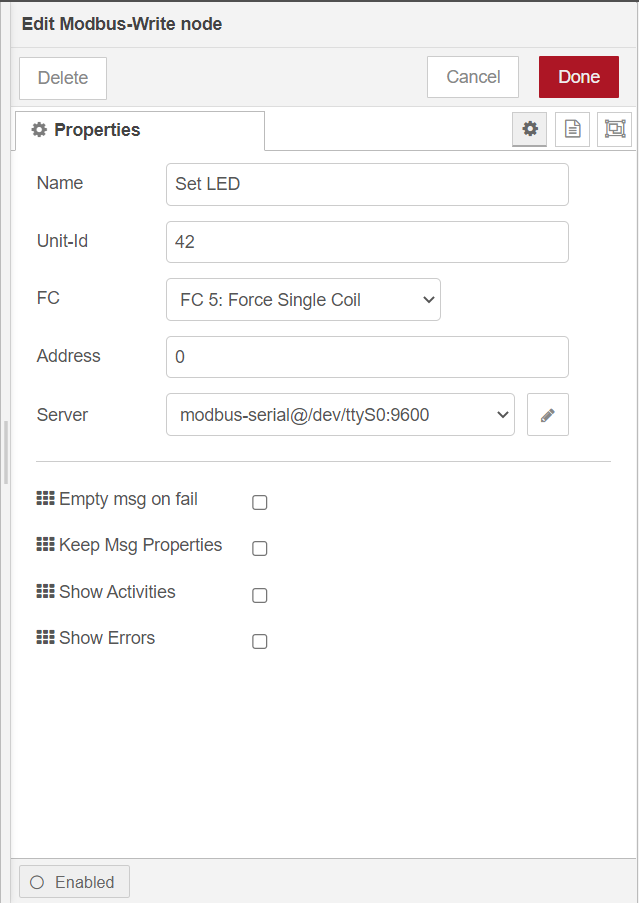
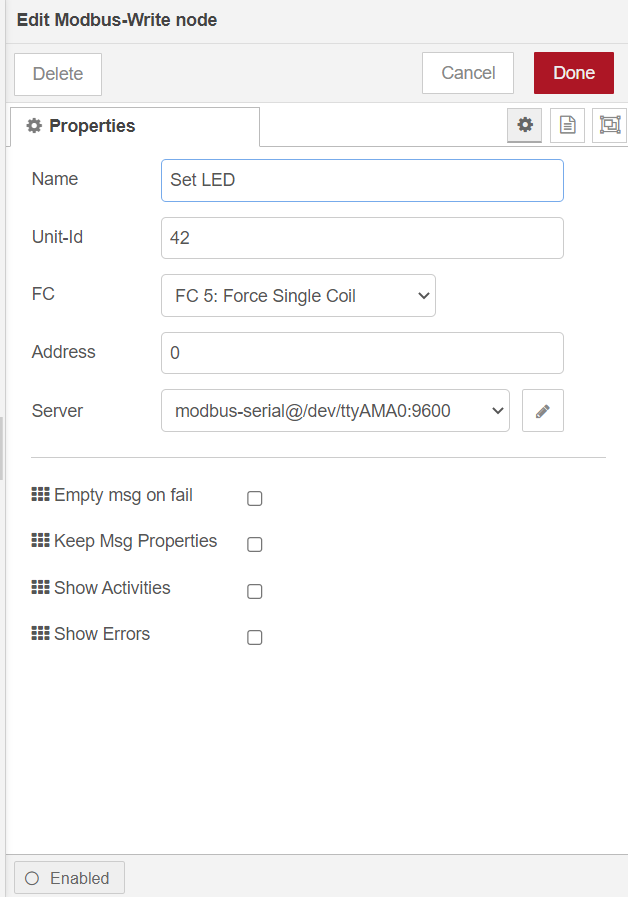
change ttyS0 to ttyAMA0

diff --git a/interface/rak5802/rak5802_modbus/README.md b/interface/rak5802/rak5802_modbus/README.md
@@ -24,11 +24,23 @@ In this example, we are going to deploy a flow in Node-RED to communication with
 
 If you are using Node-RED locally (in the host machine without using docker containers), you need to make sure the Node-RED user has access to the serial port device on your host machine.
 
-For raspberry pi 4B,  we should enable `ttyS0` before with `sudo raspi-config`.  Then, select `Interface Options`  and  `Serial Port ` to disable serial login shell and enable serial interface.
+For raspberry pi 4B,  we should enable `/dev/ttyAMA0`. To enable it , we should modify `/boot/config.txt` and `/boot/cmdline.txt`.
 
-<img src="assets/image-20220531104214191.png" alt="image-20220531104214191" style="zoom:50%;" />
+1. Add two lines to `/boot/config.txt`.
 
-![image-20220429120826702](assets/image-20220429120826702.png)
+```
+enable_uart=1
+dtoverlay=pi3-miniuart-bt
+```
+
+![image-20220601154722652](assets/image-config.png)
+
+2. Delete `console=serial0,115200` from `/boot/cmdline.txt`.
+   ![](assets/image-cmdline.png)
+
+3. Then, reboot raspberry pi 4B. After reboot,  we can see /dev/serial0 links with ttyAMA0.
+
+   ![image-20220601164331093](assets/image-serial-port.png)
 
 If your Node-RED is deployed inside a container, you need to mount serial port to the Node-RED container, and also make sure the user inside the container is assigned to the right group so that it has access to serial port  devices.
 
@@ -125,9 +137,9 @@ This part toggle a build-in LED on the WisBlock Base RAK5005-O by writing a sing
 
 `Read LED` is a Modbus-read node, you should set `FC` to `Read Coin Status`.
 
-<img src="assets/read_led.png" alt="read_led" style="zoom:67%;" />
+<img src="assets/read_rak19001.png" alt="read_rak19001" style="zoom:67%;" />
 
-`Set LED` is a Modbus-wirte node, you should set `FC` to `Force Single Coin`
+`Set LED` is a Modbus-wirte node, you should set `FC` to `Force Single Coin`.
 
 <img src="assets/set_led.png" alt="set_led" style="zoom:67%;" />
 
@@ -140,8 +152,6 @@ This part read temperature and humidity data from RAK1901 by reading holding reg
 `Quantity` specifies the quantity of registers to be read.
 
 <img src="assets/read_rak19001.png" alt="read_rak19001" style="zoom:67%;" />
-
-
 
 Hit the `Deploy` button on the top right to deploy this flow, you will see the LED status,  temperature and humidity data on the debug window.
 

diff --git a/interface/rak13005/rak13005-linbus/README.md b/interface/rak13005/rak13005-linbus/README.md
@@ -24,11 +24,23 @@ In this example, we are going to deploy a flow in Node-RED to communication with
 
 If you are using Node-RED locally (in the host machine without using docker containers), you need to make sure the Node-RED user has access to the serial port device on your host machine.
 
-For raspberry pi 4B,  we should enable `ttyS0` before with `sudo raspi-config`.  Then, select `Interface Options`  and  `Serial Port ` to disable serial login shell and enable serial interface.
+For raspberry pi 4B,  we should enable `/dev/ttyAMA0`. To enable it , we should modify `/boot/config.txt` and `/boot/cmdline.txt`.
 
-<img src="assets/image-20220531104214191.png" alt="image-20220531104214191" style="zoom:50%;" />
+1. Add two lines to `/boot/config.txt`.
 
-![image-20220429120826702](assets/image-20220429120826702.png)
+```
+enable_uart=1
+dtoverlay=pi3-miniuart-bt
+```
+
+![](assets/image-config.png)
+
+2. Delete `console=serial0,115200` from `/boot/cmdline.txt`.
+   ![](assets/image-cmdline.png)
+
+3. Then, reboot raspberry pi 4B. After reboot,  we can see /dev/serial0 links with ttyAMA0.
+
+   ![](assets/image-serial.png)
 
 If your Node-RED is deployed inside a container, you need to mount serial port to the Node-RED container, and also make sure the user inside the container is assigned to the right group so that it has access to serial port  devices.
 
@@ -120,7 +132,7 @@ when we compile and upload master code successfully, we can open the Serial Moni
 
 Now import the flow, the new flow should look like this:
 
-![linbus-parse-flow](assets/linbus-parse-flow.png)
+![](assets/linbus-parse-flow.png)
 
 You must configure `ID` option and `Length` option in the `linbus-parse` node,  `ID` specify the identifier of linbus frame that you want to parse, and `Length` specify the data length of linbus frame that you want to parse.
 
@@ -140,7 +152,7 @@ Hit the `Deploy` button on the top right to deploy this flow, once linBUS data a
 
 Now import the flow , the new flow should look like this:
 
-![linbus-builder-flow](assets/linbus-builder-flow.png)
+![image-20220601165818453](assets/linbus-builder-flow.png)
 
 You must configure `ID` option Specify the identifier of linbus frame that you want to builder.
 

diff --git a/README-Docker/README.md b/README-Docker/README.md
@@ -199,7 +199,7 @@ docker run -it -p 1880:1880 -v node_red_data:/data --name NodeRed --device /dev/
 For raspberry pi 4B, to run in Docker in its simplest form just run:
 
 ```
-docker run -it -p 1880:1880 -v node_red_data:/data --name NodeRed --device /dev/ttyS0:/dev/ttyS0 --user node-red:dialout nodered/node-red
+docker run -it -p 1880:1880 -v node_red_data:/data --name NodeRed --device /dev/ttyAMA0:/dev/ttyAMA0 --user node-red:dialout nodered/node-red
 ```
 
 In the command above, the `--device` can mount serial device to container, and `--name` can add an user with specified group.
@@ -254,7 +254,7 @@ services:
     ports:
         - "1880:1880/tcp"
     devices:
-        - "/dev/ttyUSB0:/dev/ttyS0"
+        - "/dev/ttyUSB0:/dev/ttyAMA0"
 
 volumes:
   node_red_data:
@@ -289,7 +289,7 @@ docker run -it -p 1880:1880 -v node_red_data:/data --device /dev/gpiochip0:/dev/
 For raspberry pi 4B:
 
 ```
-docker run -it -p 1880:1880 -v node_red_data:/data --device /dev/gpiochip0:/dev/gpiochip0 --device /dev/i2c-1:/dev/i2c-1  --device /dev/ttyS0:/dev/ttyS0 --restart=unless-stopped --user node-red:997 --group-add 998 --name NodeRed nodered/node-red
+docker run -it -p 1880:1880 -v node_red_data:/data --device /dev/gpiochip0:/dev/gpiochip0 --device /dev/i2c-1:/dev/i2c-1  --device /dev/ttyAMA0:/dev/ttyAMA0 --restart=unless-stopped --user node-red:997 --group-add 998 --name NodeRed nodered/node-red
 ```
 
  
@@ -345,7 +345,7 @@ services:
     devices:
       - "/dev/gpiochip0:/dev/gpiochip0"
       - "/dev/i2c-1:/dev/i2c-1"
-      - "/dev/ttyS0:/dev/ttyS0"
+      - "/dev/ttyAMA0:/dev/ttyAMA0"
     volumes:
       - 'node-red-data:/data'
     ports:
